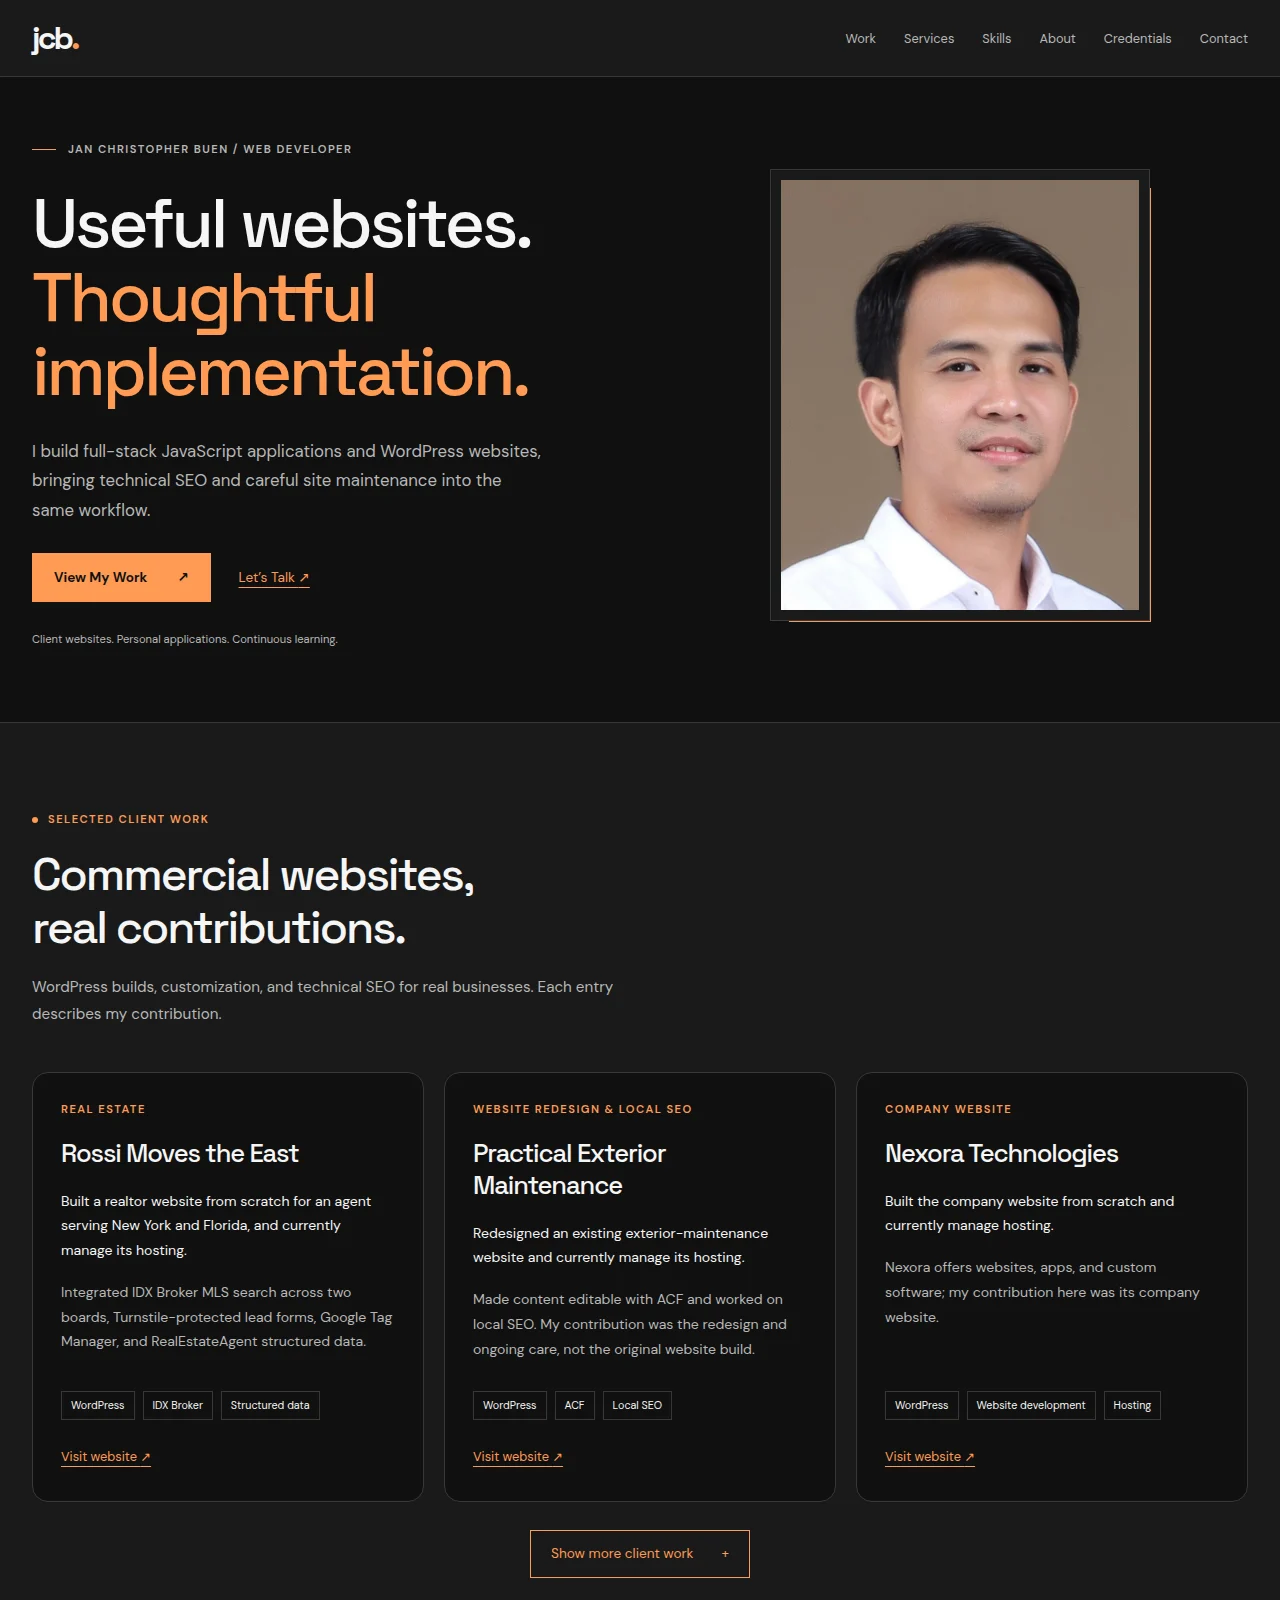
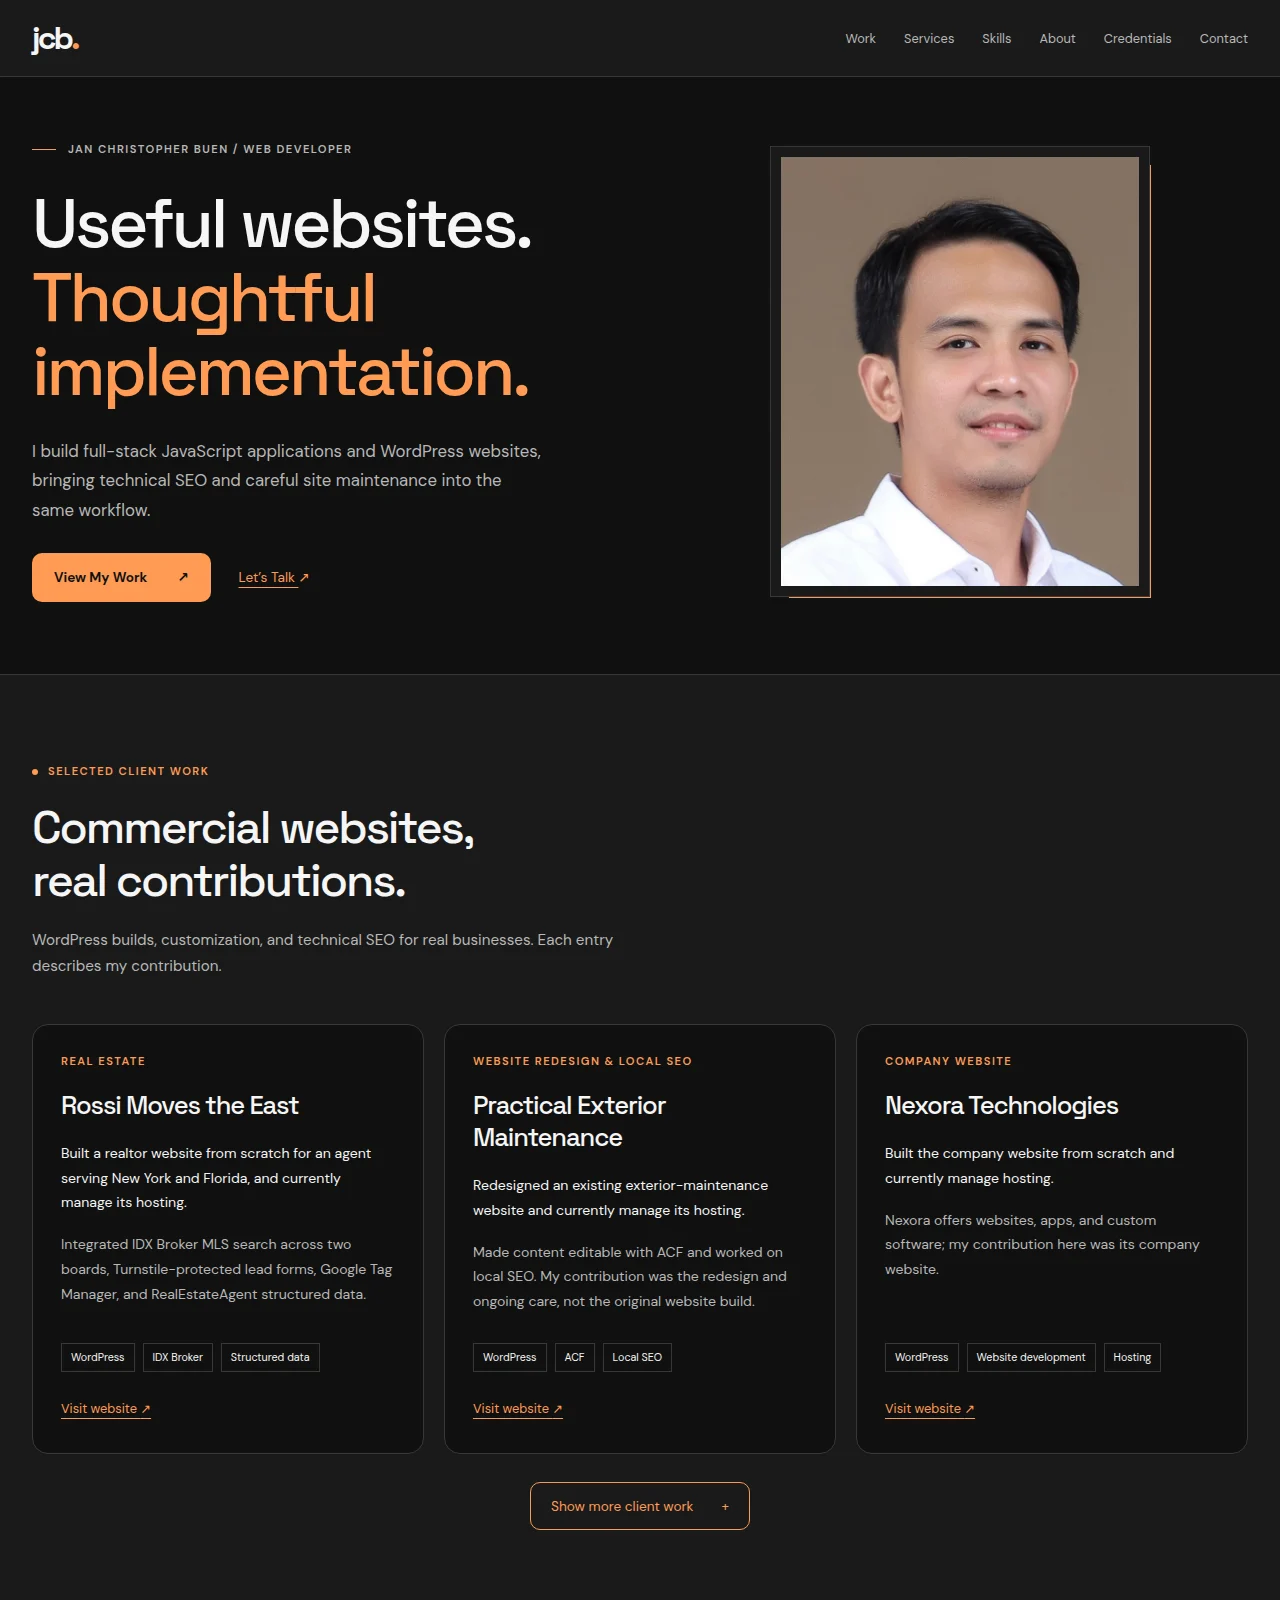
feat(motion): add accessible slide reveals and rounded actions
Use content-triggered slide-up motion, staggered cards, and a portrait reveal without opacity flashing. Respect reduced motion, preserve sticky About, and remove the extra hero caption.

diff --git a/src/styles.css b/src/styles.css
@@ -271,11 +271,6 @@ main:focus {
   font-size: 0.85rem;
   padding: 12px 0;
 }
-.hero-caption {
-  margin: 28px 0 0;
-  color: var(--muted);
-  font-size: 0.7rem;
-}
 .client-work {
   border-top: 1px solid var(--line);
   background: var(--surface);
@@ -299,10 +294,13 @@ main:focus {
   padding: 28px;
   transition:
     background 0.2s,
+    border-color 0.2s,
     transform 0.2s;
 }
-.client-card:hover {
+.client-card:hover,
+.client-card:focus-within {
   background: var(--raised);
+  border-color: var(--accent);
   transform: translateY(-3px);
 }
 .client-card > .eyebrow {
@@ -387,10 +385,13 @@ main:focus {
   flex-direction: column;
   transition:
     background 0.2s,
+    border-color 0.2s,
     transform 0.2s;
 }
-.service-grid article:hover {
+.service-grid article:hover,
+.service-grid article:focus-within {
   background: var(--raised);
+  border-color: var(--accent);
   transform: translateY(-3px);
 }
 .service-icon {
@@ -760,7 +761,8 @@ main:focus {
   justify-content: center;
   gap: 12px;
 }
-.contact-actions .button,
+button,
+.button,
 .contact-github {
   border-radius: 10px;
 }
@@ -815,19 +817,69 @@ main:focus {
 }
 @keyframes enter {
   from {
-    opacity: 0.3;
-    transform: translateY(12px);
+    transform: translateY(24px);
   }
   to {
-    opacity: 1;
     transform: translateY(0);
   }
 }
-.hero-copy {
-  animation: enter 0.5s ease-out both;
+.hero-copy > * {
+  animation: enter 0.65s cubic-bezier(0.16, 1, 0.3, 1) backwards;
 }
-.section-enter {
-  animation: enter 0.4s ease-out;
+.hero-copy > :nth-child(2) {
+  animation-delay: 60ms;
+}
+.hero-copy > :nth-child(3) {
+  animation-delay: 120ms;
+}
+.hero-copy > :nth-child(4) {
+  animation-delay: 180ms;
+}
+@keyframes portrait-reveal {
+  from {
+    clip-path: inset(0 0 100% 0);
+  }
+  to {
+    clip-path: inset(0);
+  }
+}
+.hero-portrait img {
+  animation: portrait-reveal 0.8s cubic-bezier(0.16, 1, 0.3, 1) 100ms backwards;
+}
+.button > span[aria-hidden],
+.secondary-action > span[aria-hidden],
+.contact-github > span[aria-hidden] {
+  display: inline-block;
+  transition: transform 0.2s ease-out;
+}
+.button:is(:hover, :focus-visible) > span[aria-hidden],
+.secondary-action:is(:hover, :focus-visible) > span[aria-hidden],
+.contact-github:is(:hover, :focus-visible) > span[aria-hidden] {
+  transform: translate(2px, -2px);
+}
+.timeline-dot {
+  transition:
+    border-color 0.2s,
+    background 0.2s,
+    box-shadow 0.2s;
+}
+.timeline-entry:is(:hover, :focus-within) .timeline-dot {
+  border-color: var(--accent);
+  box-shadow: 0 0 0 4px rgb(255 155 84 / 10%);
+}
+.reveal-enter {
+  animation: enter 0.65s cubic-bezier(0.16, 1, 0.3, 1) backwards;
+}
+.client-grid > .reveal-enter:nth-child(2),
+.service-grid > .reveal-enter:nth-child(2) {
+  animation-delay: 80ms;
+}
+.client-grid > .reveal-enter:nth-child(3),
+.service-grid > .reveal-enter:nth-child(3) {
+  animation-delay: 160ms;
+}
+.service-grid > .reveal-enter:nth-child(4) {
+  animation-delay: 240ms;
 }
 @media (min-width: 761px) {
   .about {
@@ -933,10 +985,6 @@ main:focus {
   .hero-description {
     font-size: 0.95rem;
   }
-  .hero-caption {
-    max-width: 320px;
-    line-height: 1.7;
-  }
   .section {
     padding: 58px 22px;
   }
@@ -1010,6 +1058,15 @@ main:focus {
 @media (prefers-reduced-motion: reduce) {
   html {
     scroll-behavior: auto;
+  }
+  .client-card:is(:hover, :focus-within),
+  .service-grid article:is(:hover, :focus-within),
+  .button:is(:hover, :active),
+  .project-image:hover img,
+  .button > span[aria-hidden],
+  .secondary-action > span[aria-hidden],
+  .contact-github > span[aria-hidden] {
+    transform: none !important;
   }
   *,
   *::before,

diff --git a/src/App.jsx b/src/App.jsx
@@ -40,25 +40,36 @@ function About() {
 
 export default function App() {
   useEffect(() => {
-    if (
-      !('IntersectionObserver' in window) ||
-      window.matchMedia('(prefers-reduced-motion: reduce)').matches
-    )
-      return
+    if (!('IntersectionObserver' in window)) return
+    const motion = window.matchMedia('(prefers-reduced-motion: reduce)')
     const observer = new IntersectionObserver(
       (entries) =>
         entries.forEach((entry) => {
-          if (entry.isIntersecting) {
-            entry.target.classList.add('section-enter')
+          if (entry.isIntersecting && !motion.matches) {
+            entry.target.classList.add('reveal-enter')
             observer.unobserve(entry.target)
           }
         }),
-      { threshold: 0.06 },
+      { threshold: 0.01, rootMargin: '0px 0px 48px 0px' },
     )
-    document
-      .querySelectorAll('.section')
-      .forEach((section) => observer.observe(section))
-    return () => observer.disconnect()
+    function observeContent() {
+      observer.disconnect()
+      if (motion.matches) return
+      document
+        .querySelectorAll(
+          '.section-heading, .client-card, .service-grid article, .project, .stack-list > div, .about-content, .timeline-entry, .credential-list > li, .contact-panel',
+        )
+        .forEach((element) => {
+          if (!element.classList.contains('reveal-enter'))
+            observer.observe(element)
+        })
+    }
+    observeContent()
+    motion.addEventListener('change', observeContent)
+    return () => {
+      observer.disconnect()
+      motion.removeEventListener('change', observeContent)
+    }
   }, [])
   return (
     <>
@@ -92,9 +103,6 @@ export default function App() {
                 Let’s Talk <span aria-hidden="true">↗</span>
               </a>
             </div>
-            <p className="hero-caption">
-              Client websites. Personal applications. Continuous learning.
-            </p>
           </div>
           <div className="hero-portrait">
             <img

diff --git a/README.md b/README.md
@@ -17,7 +17,7 @@ I built this website for [The Odin Project’s personal website assignment](http
 - Capsule badges with locally bundled technology logos and readable labels, grouped into frontend, backend/data, WordPress, testing, and tools/deployment. The selection reflects my client work and public JavaScript projects.
 - About content and an Experience timeline share equal-width desktop columns, stacked on mobile. About stays visible while scrolling the timeline in the desktop layout. The timeline covers my current web role and previous manufacturing and QA roles; the introduction appears once under About, and the About navigation link covers the combined content.
 - Six certifications in web development and search, followed by a focused contact panel with email and GitHub actions, plus a minimal footer with copyright and navigation links.
-- Neutral dark surfaces with warm orange actions, responsive navigation, visible keyboard focus, a skip link, and motion that respects reduced-motion preferences.
+- Neutral dark surfaces with warm orange actions, responsive navigation, visible keyboard focus, and a skip link. Smooth slide-up entrances, a portrait wipe reveal, staggered cards, arrow interactions, and timeline highlights respect reduced-motion preferences. Text remains fully opaque throughout motion.
 
 The full-stack applications are personal learning projects, separate from the commercial WordPress work. Their free-hosted APIs may take about a minute to wake; provider limits can affect availability. Follow each source link for setup instructions and limitations.
 
